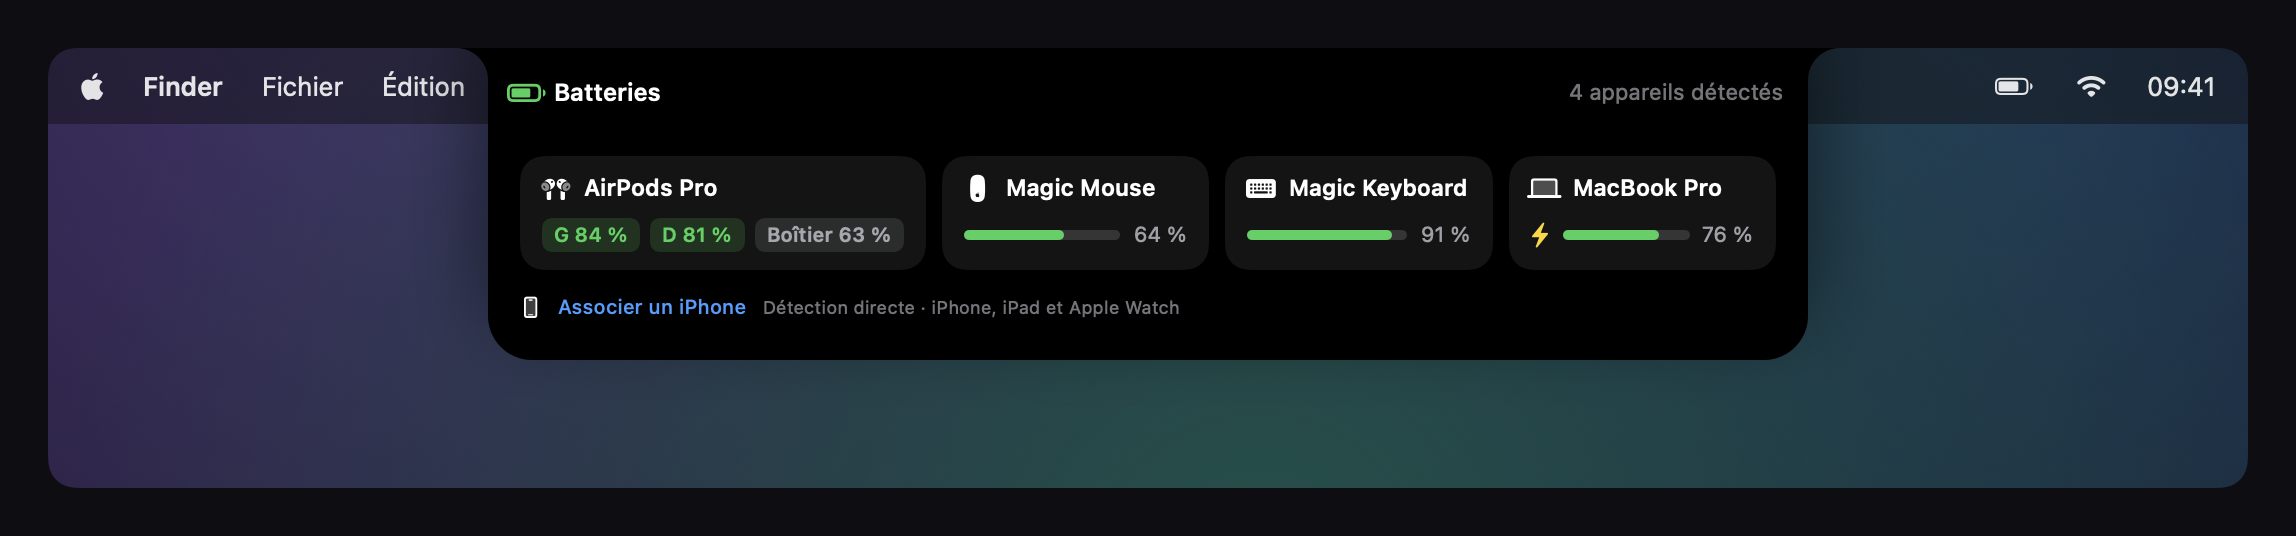
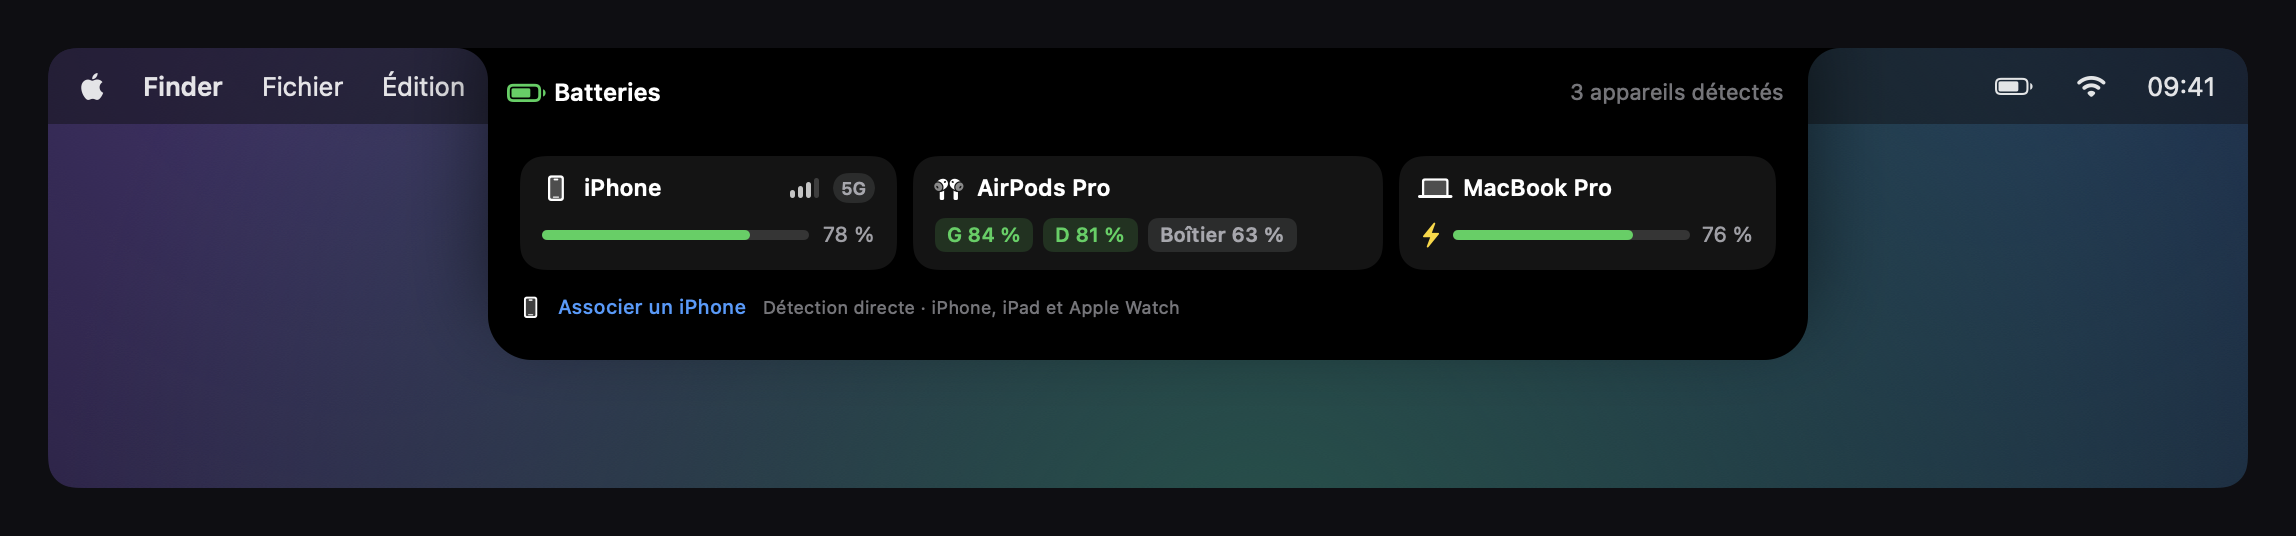
Show clipboard history and iPhone hotspot examples

diff --git a/README.md b/README.md
@@ -61,11 +61,32 @@ Parcourez les jours de la semaine et consultez les événements à venir. Lorsqu
 
 Le calendrier utilise les comptes déjà configurés dans Calendrier sur le Mac. L’accès se demande depuis l’app ; les événements se rechargent après l’accord de l’autorisation.
 
+## Copier, retrouver, coller
+
+Gardez vos copies à portée de main : textes, liens, images et extraits de code apparaissent dans l’historique du presse-papiers. Retrouvez un élément précédent pour le réutiliser sans retourner le chercher dans son application d’origine.
+
+![Historique du presse-papiers Golden Notch : exemples de texte, lien et code à 09:41](assets/clipboard.png)
+
+- Ouvrez le presse-papiers avec **⌃⌥V** — Contrôle + Option + V.
+- Parcourez les éléments avec les **flèches gauche et droite**, puis utilisez **Entrée** pour réutiliser la sélection.
+- Le bouton **Copier** remet l’élément dans le presse-papiers et ferme le panneau. Avec l’autorisation **Accessibilité**, l’app peut aussi le coller automatiquement dans l’application précédente ; sinon, terminez avec **⌘V**.
+- Un clic droit donne accès à **Copier sans fermer**. Vous pouvez aussi supprimer les éléments de l’historique.
+
 ## Vos appareils, d’un coup d’œil
 
 Consultez les niveaux de batterie disponibles pour le Mac et ses accessoires. Les AirPods, souris et claviers compatibles peuvent apparaître aux côtés des appareils mobiles associés.
 
-![Batteries Golden Notch : accessoires et niveaux de charge de démonstration](assets/battery.png)
+![Batteries Golden Notch : iPhone à 78 %, signal cellulaire de trois barres et réseau 5G, avec AirPods et MacBook](assets/battery.png)
+
+L’iPhone peut afficher sa batterie, les **barres de signal cellulaire** et le **type de réseau**, comme la 5G dans cet exemple. Ces informations apparaissent lorsqu’elles sont communiquées par les services de continuité de macOS.
+
+### Le partage de connexion depuis l’encoche
+
+Survolez la carte de l’iPhone pour faire apparaître le bouton **Partager**. Il permet de lancer la connexion du Mac au partage de connexion de cet iPhone.
+
+![Carte iPhone au survol dans Golden Notch : bouton bleu Partager avec l’icône de partage de connexion](assets/battery-hotspot.png)
+
+Ces deux vues montrent le même exemple fictif : la carte au repos, puis au survol. L’iPhone doit être disponible pour le partage de connexion ; l’association des appareils et les autorisations macOS peuvent être nécessaires. Le signal réseau et la connexion ne sont pas garantis pour tous les appareils.
 
 Pour l’iPhone et l’iPad, une première association USB avec « Faire confiance » peut être nécessaire avant les lectures sans fil. Les informations disponibles, notamment pour l’Apple Watch, dépendent de l’appareil, de son association et de la version du système.
 
